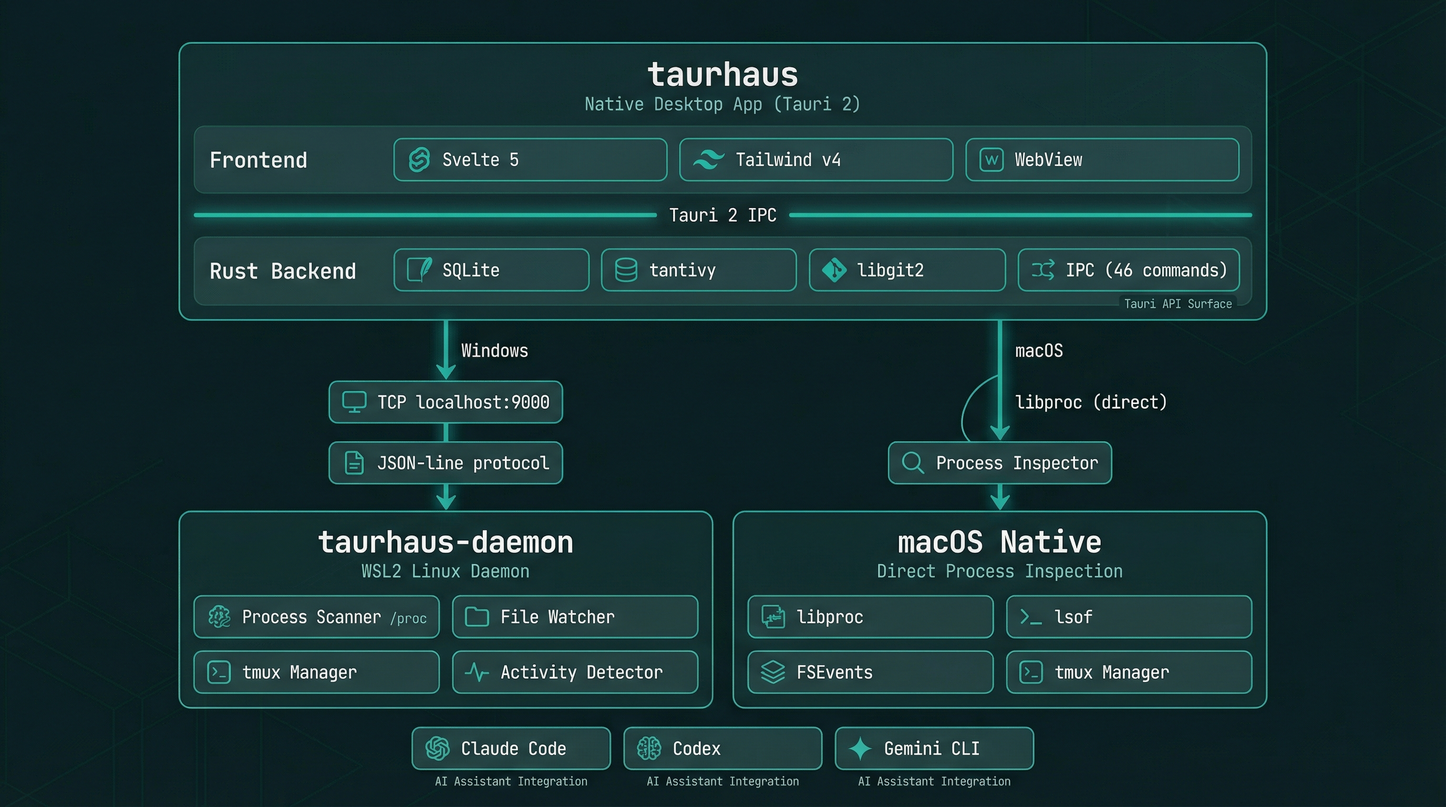
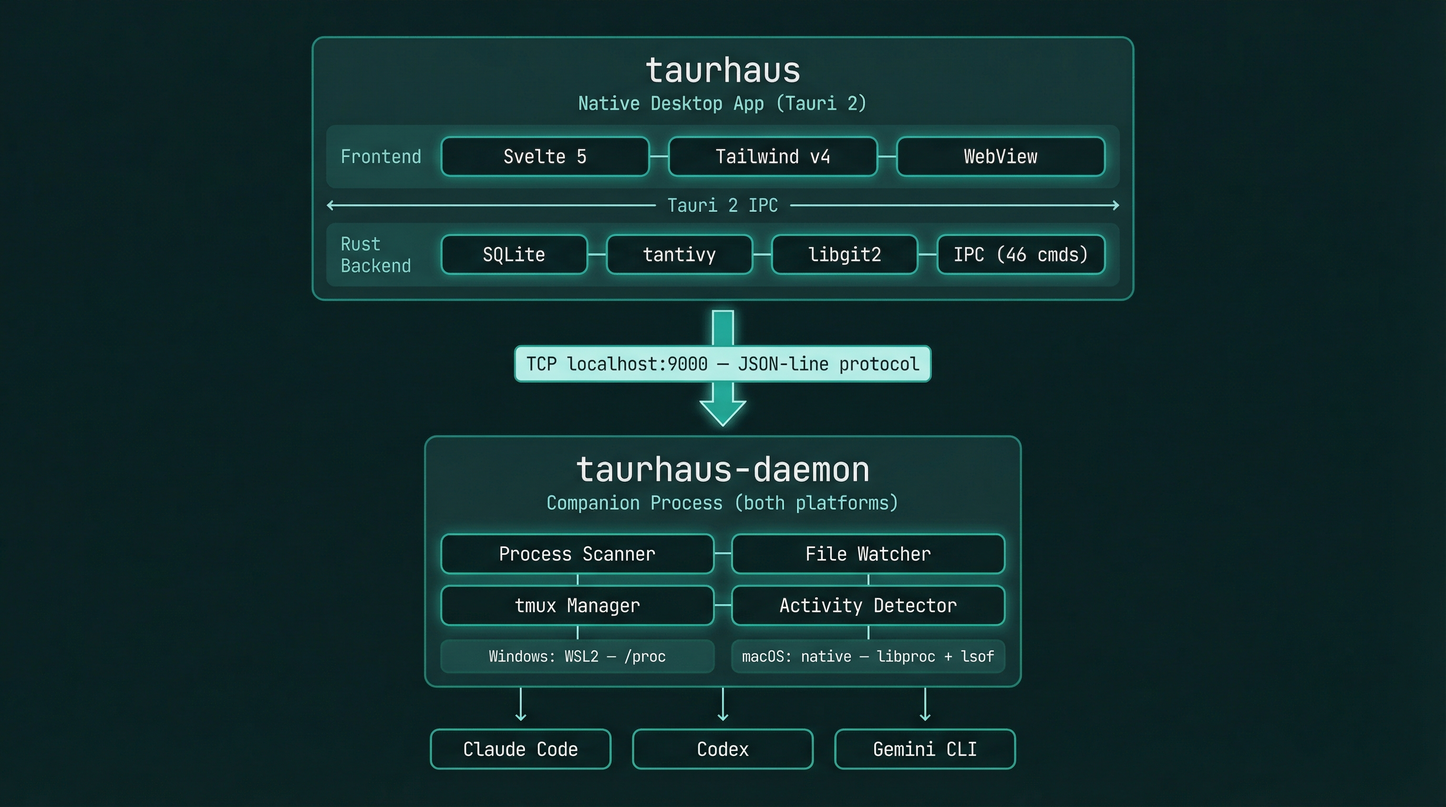
Fix architecture docs: daemon runs on both platforms
The daemon is a companion process on BOTH Windows and macOS, not
Windows-only. Windows runs it inside WSL2, macOS runs it natively.
Updated ARCHITECTURE.md, README.md, and regenerated the infographic
to accurately reflect the cross-platform dual-process architecture.

Changed region(s): [[0.125, 0.0312, 0.875, 0.9688]]

diff --git a/ARCHITECTURE.md b/ARCHITECTURE.md
@@ -4,11 +4,28 @@ A condensed overview for contributors. For the full 22 Architecture Decision Rec
 
 ## System Overview
 
-taurhaus is a dual-process desktop application — a native Windows GUI backed by a lightweight Linux daemon running inside WSL2.
+taurhaus is a cross-platform dual-process desktop application built with Tauri 2. The native GUI (Rust + Svelte 5) handles storage, git, and search. A lightweight companion daemon handles process scanning, file watching, and tmux session management, communicating with the app over TCP (JSON-line protocol on localhost:9000).
+
+The daemon runs on both platforms — the only difference is where:
+
+- **Windows**: The daemon runs inside WSL2 (launched via `wsl.exe`), where it has access to `/proc` for process inspection and the Linux filesystem where AI tools run.
+- **macOS**: The daemon runs natively as a subprocess (launched from `~/.local/bin/taurhaus-daemon`), using `libproc` and `lsof` for process inspection instead of `/proc`.
 
 ![System Architecture](docs/system-architecture.jpg)
 
-**Why two processes?** The Windows exe provides the native GUI with embedded storage and git. The WSL2 daemon handles Linux-specific operations — process scanning via `/proc`, tmux control, and file watching inside WSL filesystems. They communicate over TCP on localhost using a JSON-line protocol.
+## Platform Abstraction
+
+The `platform/` module provides compile-time dispatch (`#[cfg(target_os)]`) between Linux and macOS implementations. Both platforms implement the same function signatures — the compiler enforces the API contract. The daemon binary is compiled per-platform with the correct implementation.
+
+| Function | Linux (daemon in WSL2) | macOS (native daemon) |
+|----------|--------------------|--------------------|
+| `process_cwd(pid)` | `/proc/PID/cwd` readlink | `proc_pidinfo` (libproc) |
+| `process_tty(pid)` | `/proc/PID/fd/0` readlink | `lsof -p PID -a -d 0` |
+| `process_rchar(pid)` | `/proc/PID/io` rchar field | `proc_pid_rusage` (libproc) |
+| `collect_socket_inodes(pid)` | `/proc/PID/fd` → socket inode extraction | `lsof -p PID -i TCP` |
+| `has_established_443(pid)` | `/proc/PID/net/tcp` socket state parsing | `lsof` ESTABLISHED filter |
+
+The session scanner (`session_scanner/`) and activity detector (`proc_io.rs`) are fully platform-agnostic — they call into the platform module and don't know which OS they're running on.
 
 ## Frontend (Svelte 5 + Tailwind v4)
 
@@ -29,12 +46,6 @@ The frontend runs inside Tauri's embedded WebView — not a browser. All data co
 | `FirstRunWizard.svelte` | Onboarding flow: project discovery and registration |
 | `SplashScreen.svelte` | Startup splash with bootstrap chain progress |
 | `SessionHistory.svelte` | Session timeline with handoff summaries |
-| `MarkdownRenderer.svelte` | Markdown rendering with Shiki syntax highlighting |
-| `CodeViewer.svelte` | Syntax-highlighted file preview with line numbers |
-| `HoverCard.svelte` | Rich hover tooltips for session status |
-| `ContextMenu.svelte` | Right-click context menus (per-tool launch/stop) |
-| `AddProjectModal.svelte` | Manual project registration |
-| `DirectoryBrowser.svelte` | Directory tree for project path selection |
 
 **Key patterns:**
 - **Svelte 5 runes** (`$state`, `$derived`, `$effect`, `$props`) — no legacy stores
@@ -49,6 +60,7 @@ The frontend runs inside Tauri's embedded WebView — not a browser. All data co
 | Module | Purpose |
 |--------|---------|
 | `commands/` | Tauri IPC handlers — thin wrappers over domain modules |
+| `platform/` | Compile-time OS dispatch (linux.rs / darwin.rs) |
 | `db/` | SQLite connection, migrations, typed query functions |
 | `git/` | libgit2 wrappers for commits, diffs, blame, status |
 | `fs/` | File tree, content reading, asset serving, file watching |
@@ -56,8 +68,8 @@ The frontend runs inside Tauri's embedded WebView — not a browser. All data co
 | `session/` | Session import, parsing, archival |
 | `session_scanner/` | CLI tool detection (process scanning, idle detection) |
 | `task_scanner/` | Task aggregation from Claude Code, Codex, Gemini |
-| `daemon/` | TCP client, daemon lifecycle, health monitoring |
-| `terminal/` | tmux session management, pane layout |
+| `daemon/` | TCP client + server, daemon lifecycle (Windows/WSL only) |
+| `terminal/` | Terminal emulator management (Windows Terminal, iTerm2, etc.) |
 | `claude_code/` | Claude Code project resolution, memory, teams |
 | `provider/` | CLI tool definitions and launch configuration |
 | `services/` | Cross-cutting application services |
@@ -88,19 +100,34 @@ Grouped by domain:
 
 ### Session Scanner
 
-Detects running CLI tool sessions (Claude Code, Codex, Gemini CLI) via:
+Detects running CLI tool sessions (Claude Code, Codex, Gemini CLI). The detection logic is platform-agnostic — it calls into the `platform/` module for OS-specific process inspection.
 
 | Tool | Detection | Activity Signal |
 |------|-----------|-----------------|
-| Claude Code | Process name + cwd | `/proc/PID/io` read bytes (IO hysteresis) |
+| Claude Code | Process name + cwd | IO read bytes — hysteresis (2 consecutive above-threshold polls) |
 | Codex | Process name + session file cwd | Session file mtime (10s threshold) |
-| Gemini CLI | Process name + SHA-256 path hash | TCP socket state to :443 |
+| Gemini CLI | Process name + SHA-256 path hash | TCP socket state to :443 (ESTABLISHED = active) |
 
 All detection uses 2-poll bidirectional hysteresis to prevent flickering.
 
+**Platform details:**
+- **Linux**: reads `/proc/PID/io` for IO bytes, `/proc/PID/fd` + `/proc/PID/net/tcp` for socket state
+- **macOS**: uses `proc_pid_rusage` (libproc) for IO bytes, `lsof` for socket state
+
+### Terminal Management
+
+The terminal module manages launching and focusing terminal emulators with the correct tmux session. Same decision tree on all platforms — only the emulator options differ.
+
+| Platform | Emulators | Default |
+|----------|-----------|---------|
+| Windows | Windows Terminal | `wt.exe -w taurhaus` |
+| macOS | iTerm2, Ghostty, Terminal.app | iTerm2 (auto-detect fallback) |
+
+macOS uses event-driven AppleScript to handle click-to-activate focus transitions reliably.
+
 ### Daemon Protocol
 
-JSON-line protocol over TCP (localhost:9000).
+JSON-line protocol over TCP (localhost:9000). Same protocol on both platforms — only the daemon launch mechanism differs (WSL on Windows, native subprocess on macOS).
 
 **Events (daemon → app):**
 - `file_changed` — watched file modified (triggers search re-index)
@@ -122,28 +149,30 @@ User clicks project
   → Rust reads SQLite (metadata) + libgit2 (commits) + filesystem (tree)
   → Frontend renders immediately
 
-File changes in WSL
+File changes detected
   → Daemon's file watcher detects change
-  → Sends file_changed / git_changed event over TCP
+  → Sends file_changed / git_changed event over TCP to app
   → App updates tantivy index + refreshes affected views
-  → Changes reflected within seconds
 
 CLI session detected
-  → Daemon scans /proc, finds tool process for a project
-  → Sends session_update to app
-  → Sidebar shows tool indicator icon (active/idle)
+  → Daemon's session scanner polls for tool processes
+  → Platform module inspects /proc (Linux) or libproc (macOS)
+  → App receives session_update, sidebar shows tool indicator (active/idle)
   → HoverCard shows full session details on hover
 ```
 
 ## Build System
 
-All builds use `just` recipes. The Windows exe is built **natively on Windows** via WSL2 interop — no cross-compilation.
+All builds use `just` recipes. Both Windows and macOS builds happen natively on their target platforms — no cross-compilation.
 
 ```bash
 just dev              # Tauri dev mode (hot-reload)
-just build-windows    # Sync to D:\, npm install, cargo build natively
+just build-windows    # Sync to D:\, npm install, cargo build natively via cmd.exe
+just build-macos      # Sync to Mac Mini, build ARM DMG via SSH
+just build-macos-intel # Build Intel (x86_64) DMG via SSH
 just check            # clippy + svelte-check + all tests
 just test             # All tests (Rust + frontend)
+just test-macos       # Run Rust tests on Mac Mini via SSH
 ```
 
 ## Key Decisions
@@ -159,3 +188,5 @@ just test             # All tests (Rust + frontend)
 | IPC | Tauri commands | Type-safe, async, built-in |
 | Task aggregation | Per-tool adapters | Each CLI tool stores tasks differently |
 | Daemon comms | JSON-line over TCP | Simple, debuggable, mirrored networking in WSL2 |
+| Platform dispatch | Compile-time `#[cfg]` | Zero runtime cost, compiler-enforced API contract |
+| Terminal mgmt | Per-platform emulator enum | Same decision tree, platform-specific activation |

diff --git a/README.md b/README.md
@@ -74,14 +74,14 @@ A desktop companion for developers running multiple AI coding sessions at once. 
 ### First launch
 
 1. The setup wizard scans your home directory for project folders and registers them
-2. On Windows, the daemon installs automatically into WSL — no manual steps needed
+2. The daemon installs automatically — into WSL on Windows, or `~/.local/bin/` on macOS
 3. Right-click any project in the sidebar to launch a CLI tool session
 
 ## Architecture
 
 Tauri 2 desktop app — Svelte 5 frontend, Rust backend with SQLite, tantivy, and libgit2.
 
-On **Windows**, a lightweight daemon inside WSL2 handles process scanning, file watching, and tmux management. On **macOS**, the app inspects processes directly via libproc — no daemon needed.
+A lightweight companion daemon handles process scanning, file watching, and tmux management. On **Windows** it runs inside WSL2, on **macOS** it runs natively as a subprocess. Both communicate with the app over TCP using a JSON-line protocol.
 
 ![System Architecture](docs/system-architecture.jpg)
 
